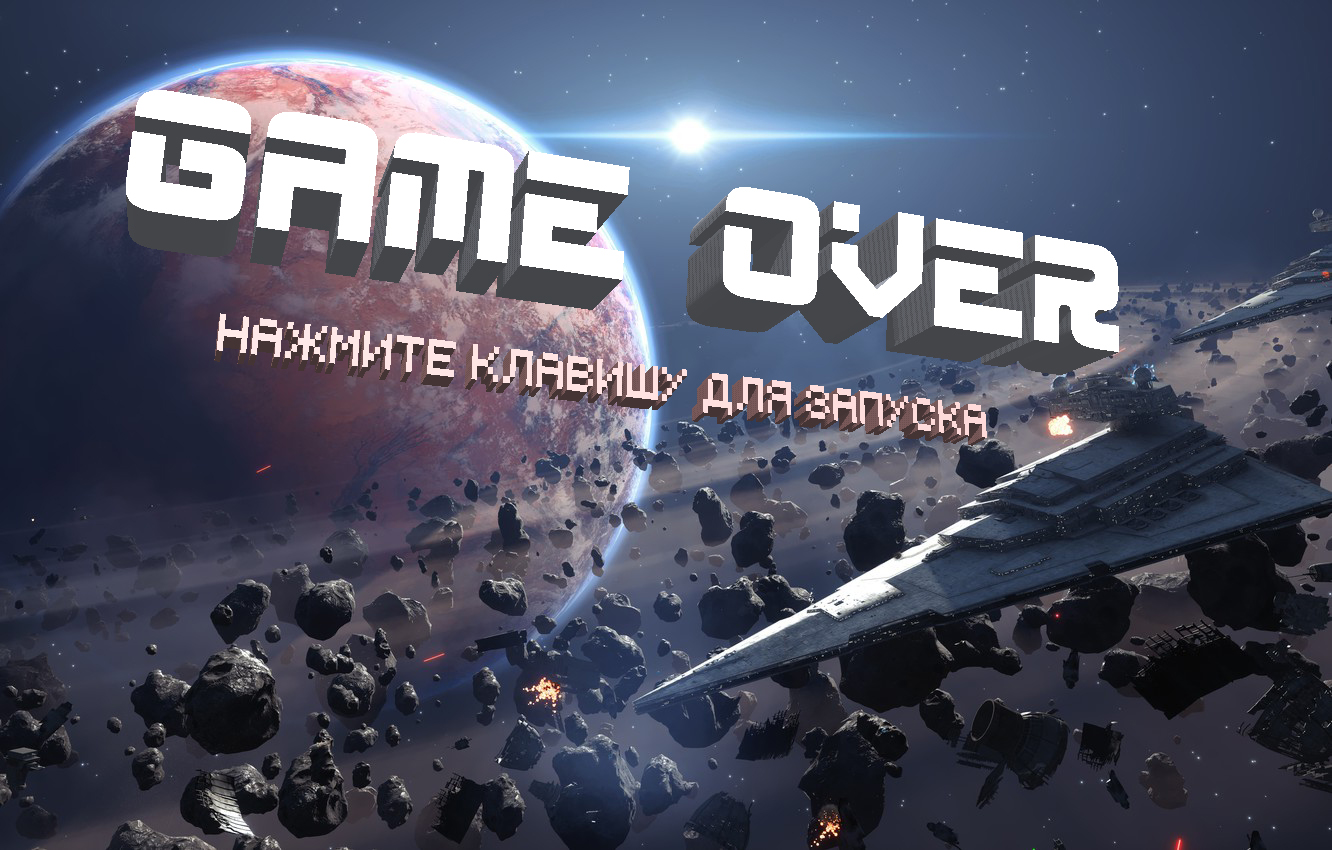
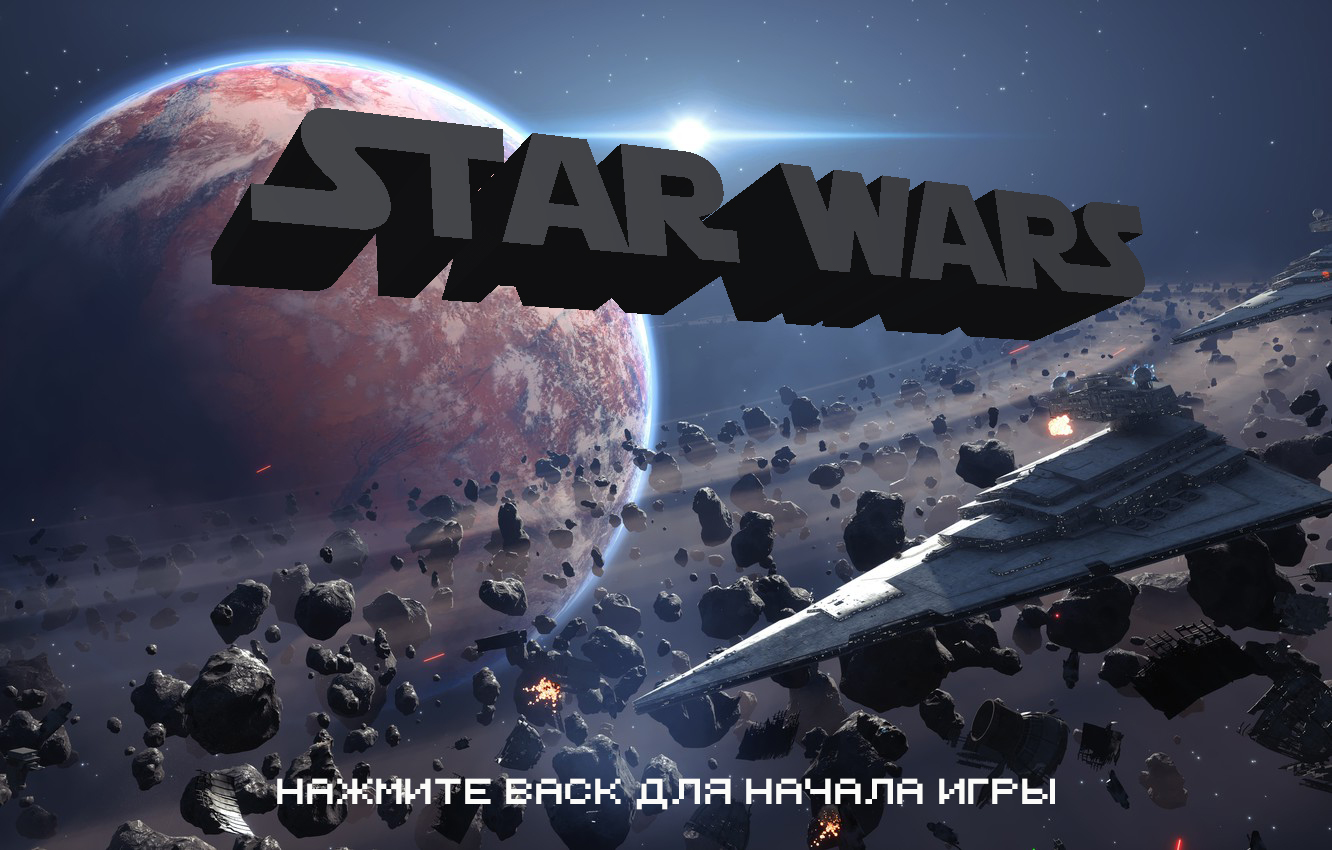
Исправлена ошибка получения энергии. А также сейчас запуск игры осуществляется через нажатие клавишы BACK

Changed region(s): [[0.0923, 0.0918, 0.8619, 0.52], [0.1847, 0.9176, 0.8003, 0.9482]]

diff --git a/game.py b/game.py
@@ -58,7 +58,8 @@ def wait_for_keystroke():
             if event.type == pygame.KEYDOWN:
                 if event.key == pygame.K_ESCAPE:  # Клавиша esc вызывает выход из игры
                     exit_game()
-                return  # Нажав любую клавишу мы уходим и игра начинается
+                if event.key == pygame.K_BACKSPACE:
+                    return
 
 
 def show_help():
@@ -78,16 +79,8 @@ def show_list_nik():
         image_nik = list_nik[j]
         window.blit(image_nik, (150 * (j + 1), 150))
     pygame.display.update()
-
+    wait_for_keystroke()
     while True:
-        for event in pygame.event.get():
-            if event.type == pygame.QUIT:
-                exit_game()
-            if event.type == pygame.KEYDOWN:
-                if event.key == pygame.K_ESCAPE:  # Клавиша esc вызывает выход из игры
-                    exit_game()
-                if event.key == pygame.K_BACKSPACE:
-                    return
         key_pressed = pygame.key.get_pressed()
         if key_pressed[pygame.K_1]:
             pass
@@ -257,11 +250,11 @@ class Game(object):
                         asteroid.kill()
                 # Когда астероид попадает на корабль
                 for asteroid in pygame.sprite.groupcollide(group_asteroids, player_team, True, False):
-                    energy -= 7  # Уменьшить энергию, которую имеет корабль
+                    energy -= 12  # Уменьшить энергию, которую имеет корабль
                     group_explosion.add(Explosion(asteroid.rect, "smoke"))
                 # Когда дроид попадает на корабль
                 for droid in pygame.sprite.groupcollide(enemy_team, player_team, True, False):
-                    energy -= 7  # Уменьшить энергию, которую имеет корабль
+                    energy -= 12  # Уменьшить энергию, которую имеет корабль
                     group_explosion.add(Explosion(droid.rect, "explosion"))
                 # Когда мы прикасаемся к энергии
                 for e in pygame.sprite.groupcollide(group_energy, player_team, True, False):

diff --git a/sprites.py b/sprites.py
@@ -107,12 +107,9 @@ class Asteroid(pygame.sprite.Sprite):
         pygame.sprite.Sprite.__init__(self)
         self.size_asteroid = ASTEROID_SIZE
         self.is_energetic = (random.random() < PROB_ENERGETIC_ASTEROID)  # Определяем дает ли текущий астероид энергию
-        self.energy_lvl = 0  # Уровень энергии, которая дается астероидом (0 без энергии)
+        self.energy_lvl = 10  # Уровень энергии, которая дается астероидом
         if self.is_energetic:
             self.image = self.select_image(os.path.join("resources", "energetic_asteroid.png"))
-            # Определяем кол-во энергии в зависимости от размера астероида
-            if self.size_asteroid == 30:
-                self.energy_lvl = 10
         else:
             self.image = self.select_image(os.path.join("resources", "asteroid.png"))
         self.rect = pygame.Rect(random.randint(0, WINDOW_WIDTH - self.size_asteroid),

diff --git a/const.py b/const.py
@@ -8,8 +8,8 @@ WIDTH_LASER = 50
 INIT_ENERGY = 100
 LENGTH_DROID = 50
 WIDTH_DROID = 50
-LENGTH_SPACESHIP = 40
-WIDTH_SPACESHIP = 80
+LENGTH_SPACESHIP = 32
+WIDTH_SPACESHIP = 64
 WINDOW_WIDTH = 1100
 WINDOW_HEIGHT = 800
 DISPLAYMODE = (WINDOW_WIDTH, WINDOW_HEIGHT)
